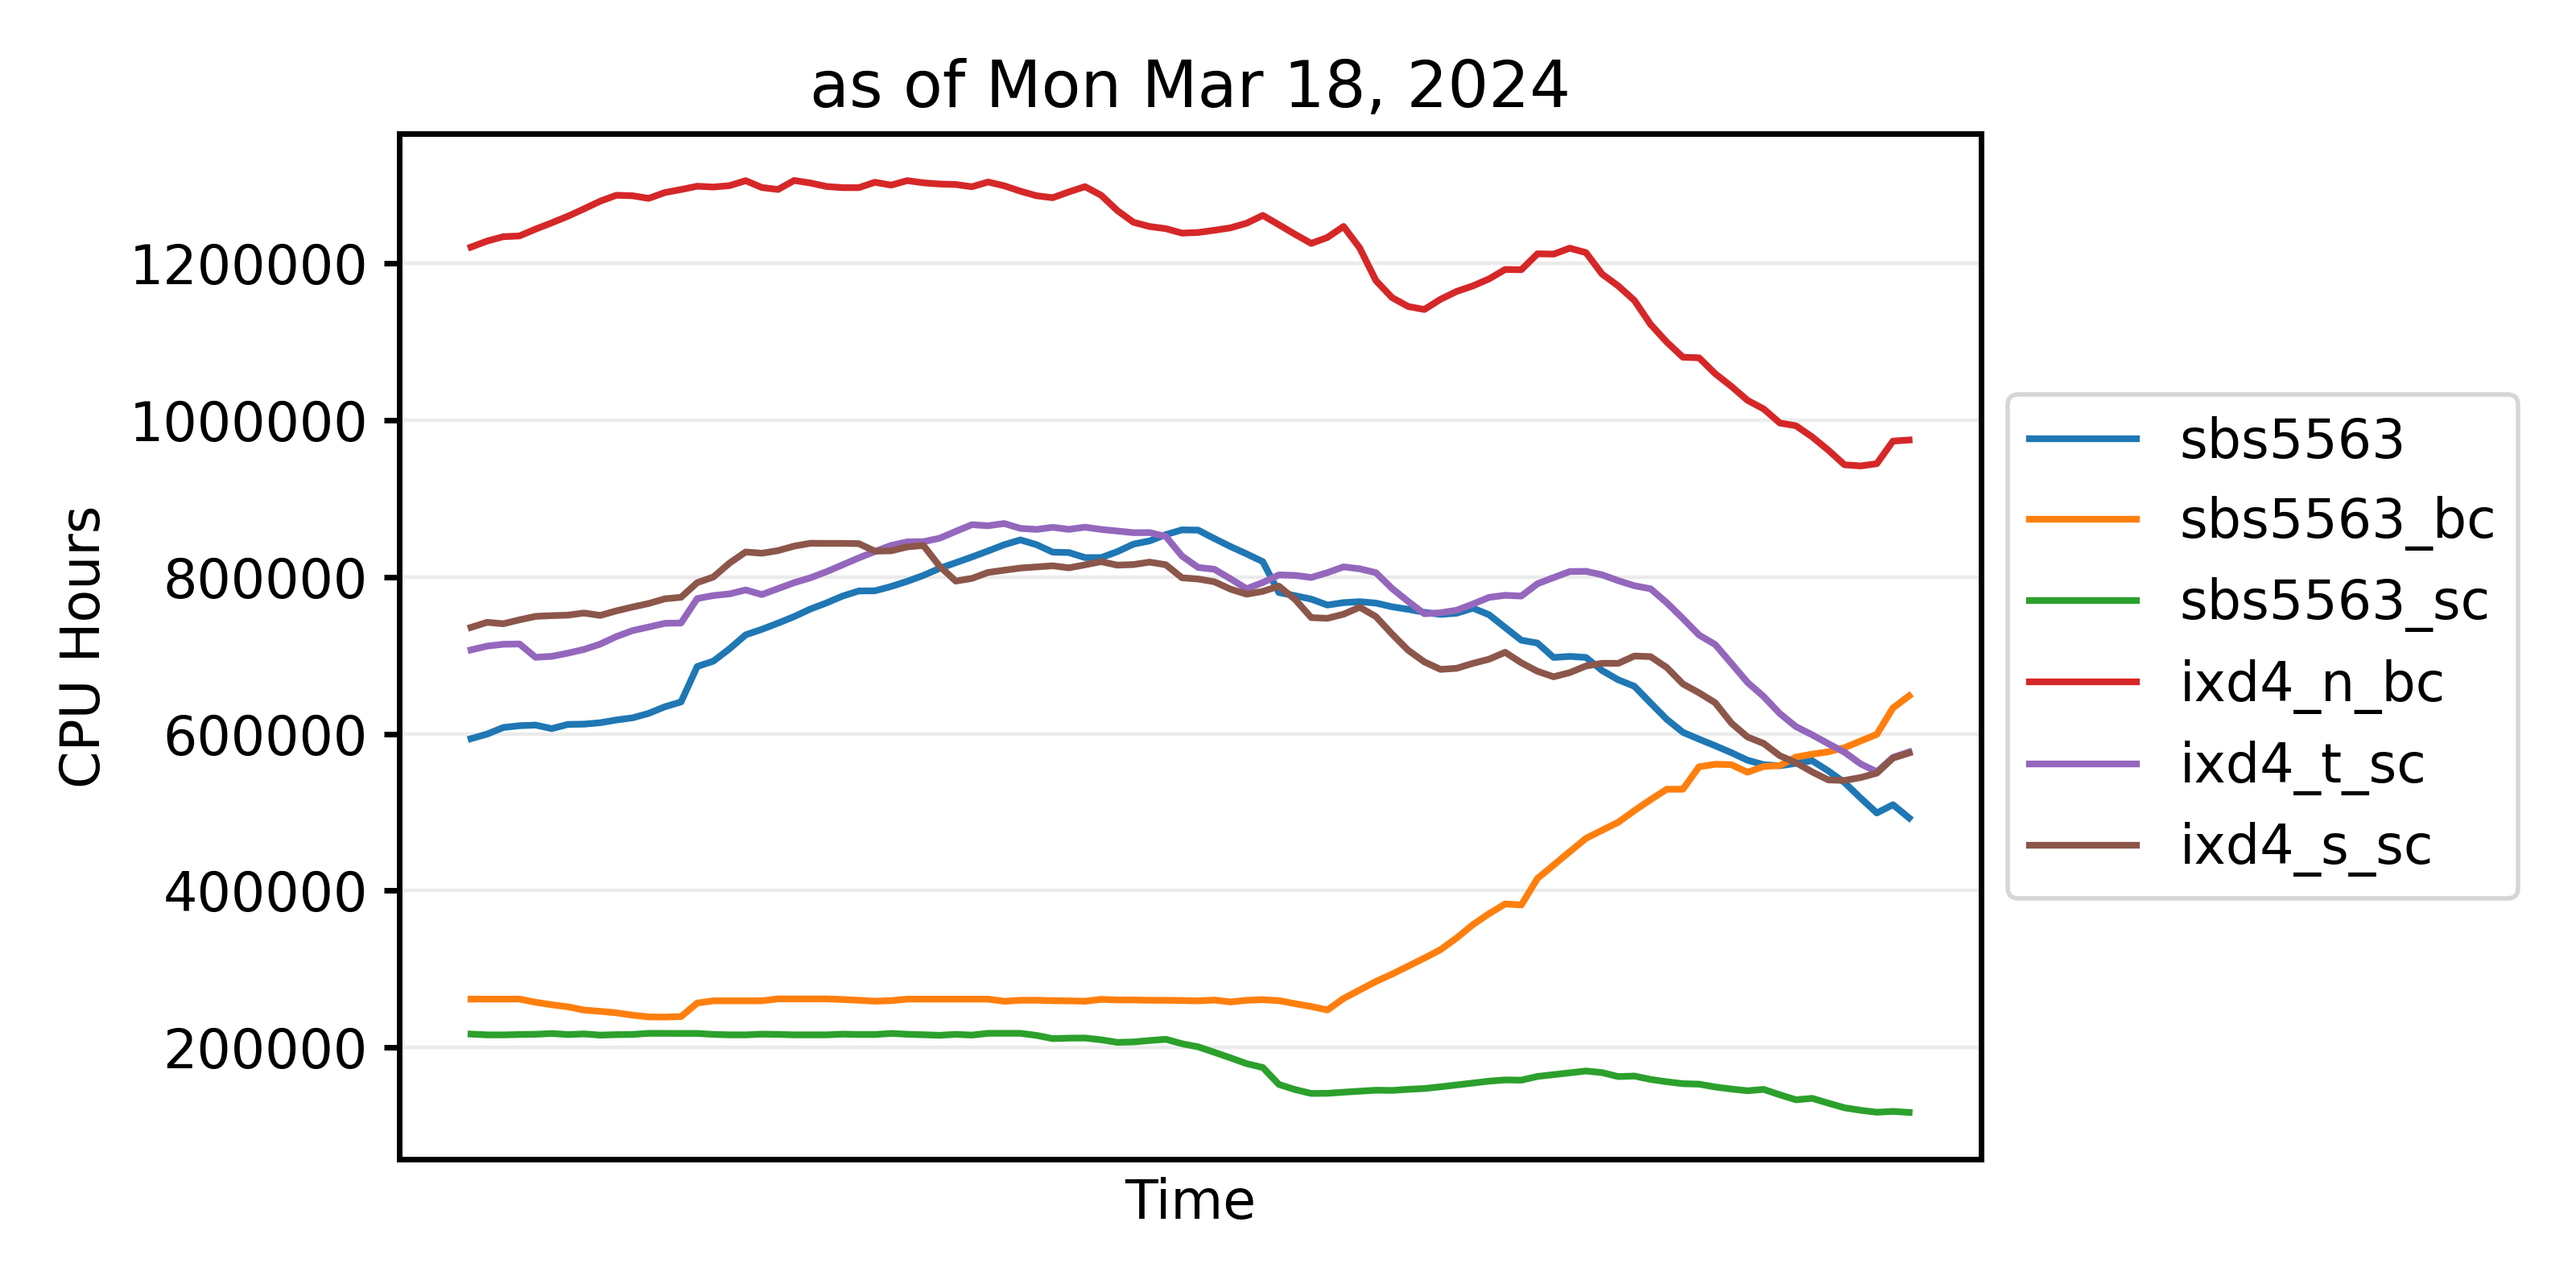
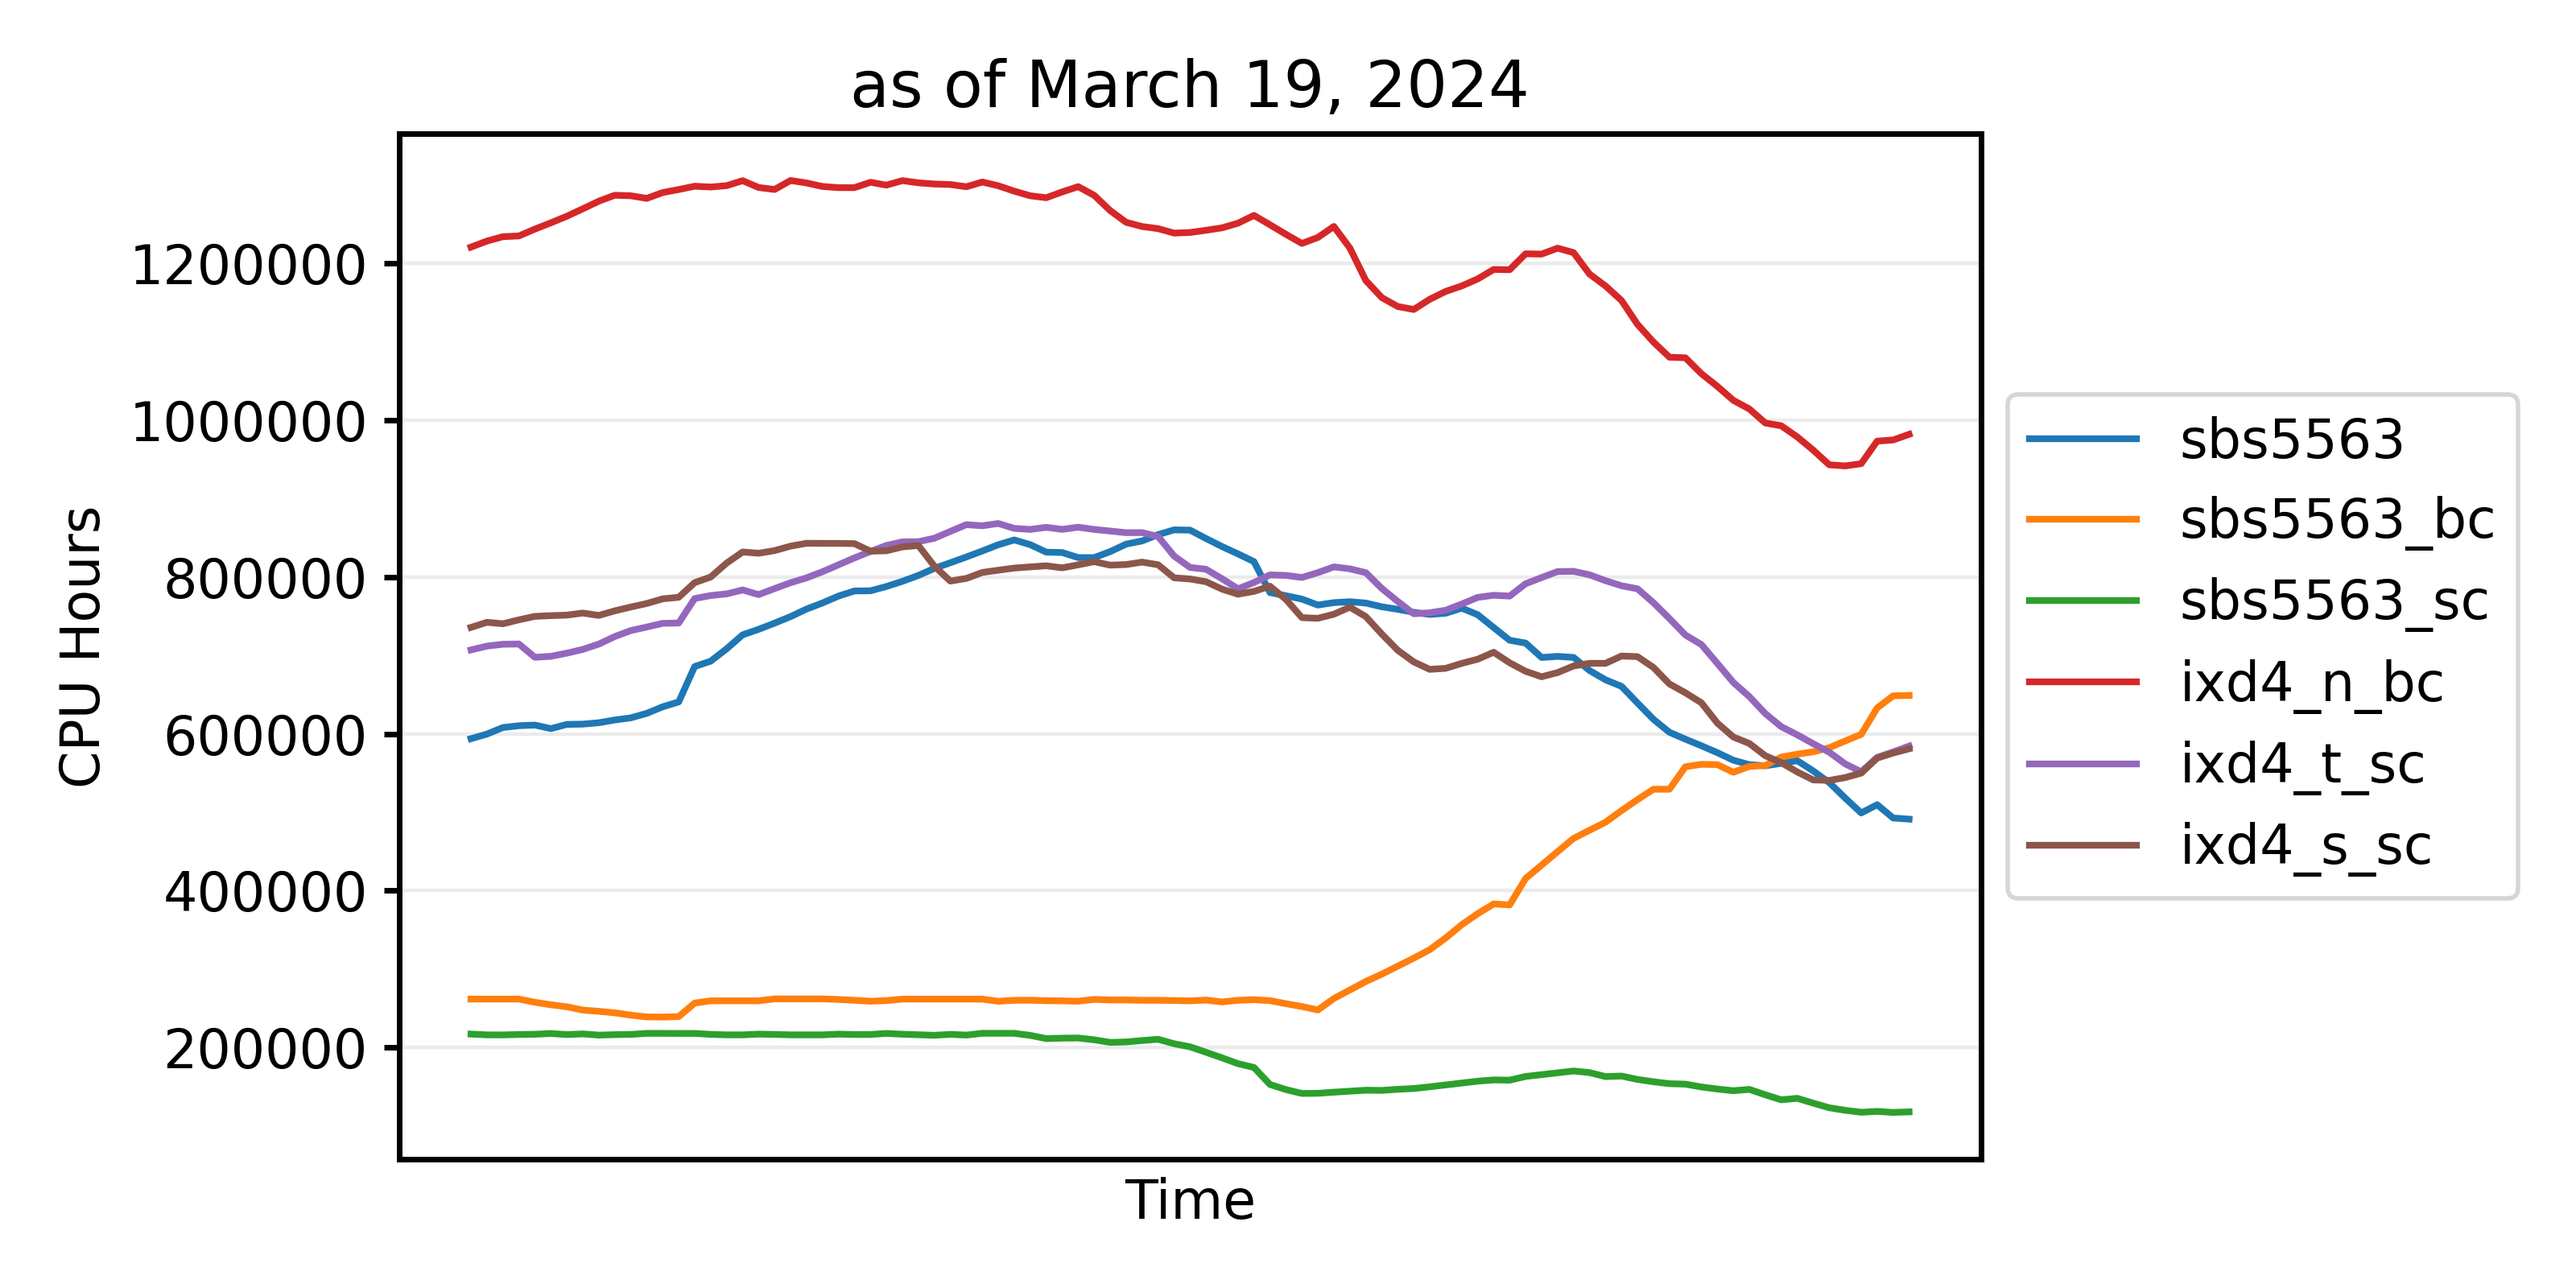
2024-03-19

diff --git a/psu_roarcollab/allocation_balances.py b/psu_roarcollab/allocation_balances.py
@@ -33,7 +33,7 @@ def plot_data(dataframe, allocations, resultspath):
         plt.grid(visible=True, alpha = 0.25, axis='y')
         plt.ticklabel_format(style='plain', axis='y')
         
-        plt.title(f"as of {date.today().strftime('%A %b %d, %Y')}")
+        plt.title(f"as of {date.today().strftime('%B %d, %Y')}")
         plt.xlabel("Time")
         plt.ylabel('CPU Hours')
         plt.tight_layout()
